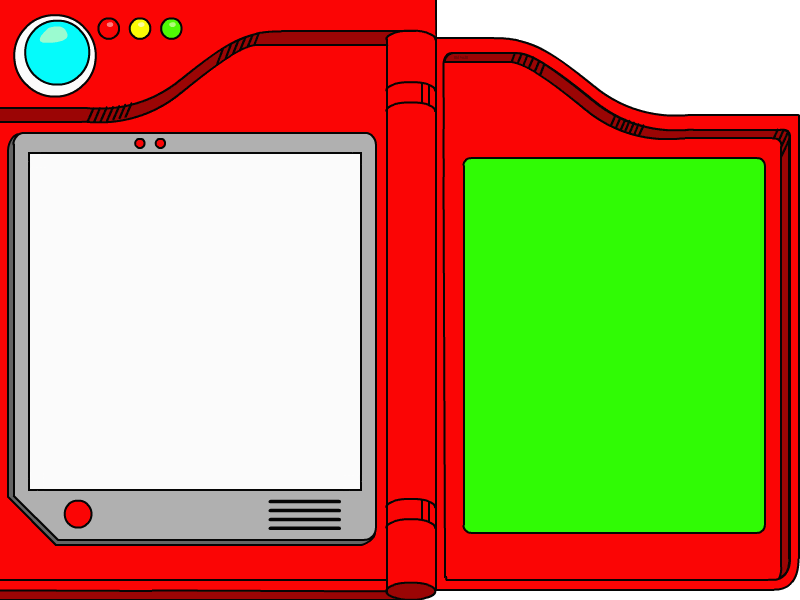
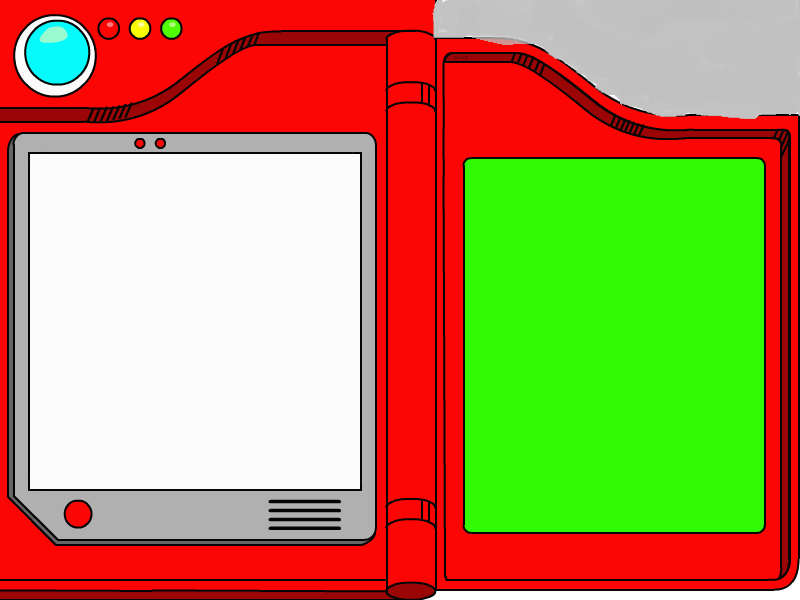
Edit auth modals

Changed region(s): [[0.5312, 0.0, 1.0, 0.21]]

diff --git a/react-app/src/components/auth/SignUpForm.js b/react-app/src/components/auth/SignUpForm.js
@@ -45,37 +45,41 @@ const SignUpForm = ({authenticated, setAuthenticated}) => {
       <Paper elevation={3} className="signup-form_wrapper">
         <form className="signup-form" onSubmit={onSignUp}>
           <div>
-            <label>User Name</label>
+            {/* <label>User Name</label> */}
             <input
               type="text"
               name="username"
+              placeholder="User Name"
               onChange={updateUsername}
               value={username}
             ></input>
           </div>
           <div>
-            <label>Email</label>
+            {/* <label>Email</label> */}
             <input
               type="text"
               name="email"
+              placeholder="Email"
               onChange={updateEmail}
               value={email}
             ></input>
           </div>
           <div>
-            <label>Password</label>
+            {/* <label>Password</label> */}
             <input
               type="password"
               name="password"
+              placeholder="Password"
               onChange={updatePassword}
               value={password}
             ></input>
           </div>
           <div>
-            <label>Repeat Password</label>
+            {/* <label>Repeat Password</label> */}
             <input
               type="password"
               name="repeat_password"
+              placeholder="Confirm Password"
               onChange={updateRepeatPassword}
               value={repeatPassword}
               required={true}

diff --git a/react-app/src/App.js b/react-app/src/App.js
@@ -48,12 +48,17 @@ function App() {
           </div>
         </ProtectedRoute>
         <Route exact path="/">
-          {/* <Banner /> */}
-          <Splash authenticated={authenticated}
-            setAuthenticated={setAuthenticated}/>
-          {/* <LogoutButton authenticated={authenticated}
-            setAuthenticated={setAuthenticated}/> */}
-          {/* <Footer /> */}
+          <div className="splash-page_container">
+            <div className="splash-page_title-container">
+              <div className="splash-page_title">Power up Your Pokedex and Start Your Adventure</div>
+            </div>
+            {/* <Banner /> */}
+            <Splash authenticated={authenticated}
+              setAuthenticated={setAuthenticated}/>
+            {/* <LogoutButton authenticated={authenticated}
+              setAuthenticated={setAuthenticated}/> */}
+            <Footer />
+          </div>
         </Route>
         <Route path="/login" exact={true}>
           <LoginForm

diff --git a/react-app/src/components/SplashPage.js b/react-app/src/components/SplashPage.js
@@ -73,11 +73,11 @@ const Splash = ({ authenticated, setAuthenticated }) => {
     <>
     <div className="splash-container">
       <div className="pokedex-power-button" onClick={renderAuthButtons} />
-      <img className="splash-container_image" src={require("../Assets/Pokedex.png")} alt="" />
+      <img className="splash-container_image" src={require("../Assets/Pokedex.jpg")} alt="" />
       <div id='splash_auth-container' />
       <div id='splash-container' />
     </div>
-    <Modal
+    <Modal className="modal"
       open={openLogin}
       onClose={handleLoginClose}
       aria-labelledby="simple-modal-title"
@@ -85,7 +85,7 @@ const Splash = ({ authenticated, setAuthenticated }) => {
     >
       <LoginForm authenticated={authenticated} setAuthenticated={setAuthenticated} />
     </ Modal>
-    <Modal
+    <Modal className="modal"
       open={openSignUp}
       onClose={handleSignupClose}
       aria-labelledby="simple-modal-title"

diff --git a/react-app/src/App.css b/react-app/src/App.css
@@ -1,3 +1,13 @@
+.splash-page_container {
+    background-image: url('./Assets/background.jpg');
+    background-repeat: no-repeat;
+    background-attachment: fixed;
+    background-size: cover;
+    height: 100%;
+    width: 100%;
+    position: absolute;
+}
+
 .team-builder_container {
     background-image: url('./Assets/stadium.png');
     background-repeat: no-repeat;
@@ -6,4 +16,13 @@
     height: 100%;
     width: 100%;
     position: absolute;
+}
+
+.splash-page_title-container {
+    display: flex;
+    justify-content: center;
+}
+
+.splash-page_title {
+    font-size: 50px;
 }

diff --git a/react-app/src/components/auth/LoginForm.js b/react-app/src/components/auth/LoginForm.js
@@ -61,7 +61,7 @@ const LoginForm = ({ authenticated, setAuthenticated }) => {
               onChange={updatePassword}
             />
           </div>
-          <button type="submit">Login</button>
+          <button className="submit-button" type="submit">Login</button>
         </form>
       </Paper>
     </div>

diff --git a/react-app/src/components/auth/LoginForm.css b/react-app/src/components/auth/LoginForm.css
@@ -15,6 +15,14 @@
     /* border: 1px solid black; */
 }
 
-.login-form_email {
+.login-form {
     /* border: 1px solid black; */
+    display: flex;
+    flex-direction: column;
+    justify-content: space-between;
+    align-items: center;
+}
+
+.submit-button {
+    margin-bottom: 150px;
 }

diff --git a/react-app/src/components/auth/SignUpForm.css b/react-app/src/components/auth/SignUpForm.css
@@ -15,6 +15,13 @@
     /* border: 1px solid black; */
 }
 
+.signup-form {
+    display: flex;
+    flex-direction: column;
+    justify-content: space-evenly;
+    align-items: center;
+}
+
 .login-form_email {
     /* border: 1px solid black; */
 }

diff --git a/react-app/src/components/SplashPage.css b/react-app/src/components/SplashPage.css
@@ -16,6 +16,10 @@
     margin-top: 235px;
 }
 
+/* .modal {
+    height: 75px;
+} */
+
 .pokedex-power-button:hover {
     background-color: red;
 }
